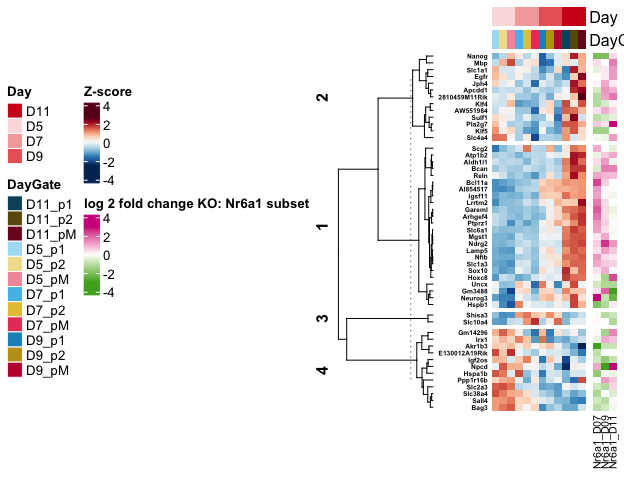
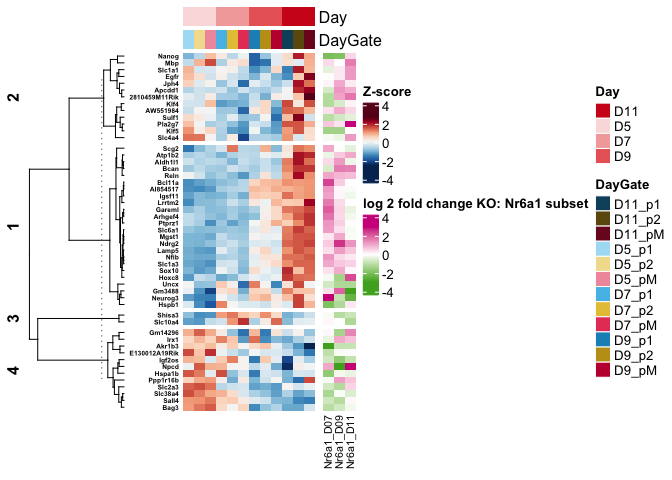
plot Nr6a1 targets

diff --git a/r_files/temporal_screen_2_hitsRNAseq.md b/r_files/temporal_screen_2_hitsRNAseq.md
@@ -618,20 +618,6 @@ ht_RNA_KOfoldchange <- lapply(c(1:length(KOvector)),function (x) {
 
     ## Warning: The input is a data frame-like object, convert it to a matrix.
 
-# CUSTOM for some genes
-
-``` r
-# dds_counts_plot <- dds_counts %>% 
-#   as.data.frame() %>%
-#   rownames_to_column("geneid") %>%
-#   gather(sampleid, counts_norm, starts_with("D"))%>% 
-#   separate(sampleid,into=c("Day","GeneKO","Rep"), sep="_", remove=FALSE) %>%
-#   left_join(metaKOs, by="GeneKO") %>%
-#   mutate(Condition=paste(GeneKO,Day, sep="_"),
-#          GeneKO=factor(GeneKO, levels=geneKO))
-#   
-```
-
 ## Fig: polycomb + Brd8
 
 - Beyond just NFIA: Polycomb + Brd8 promote temporal progression, e.g. 
@@ -773,13 +759,7 @@ hmap_catsRNA <- Heatmap(vsd_hm_z,
 
     # specify top and bottom annotations
       top_annotation = colAnn)
-```
 
-    ## 'magick' package is suggested to install to give better rasterization.
-    ## 
-    ## Set `ht_opt$message = FALSE` to turn off this message.
-
-``` r
     ## subset to make a heatmap of log2FC: there will be genes with NA throughout 
   sub_log2fc <- top_comparisons_prep_multi %>% dplyr::select(Geneid,log2FoldChange, GeneKO_day) %>%
       pivot_wider(values_from = log2FoldChange, names_from = GeneKO_day) # this table has 3 columns for the three days with NAs for those genes that are significant at a particular timepoint   
@@ -832,7 +812,7 @@ draw(hmap_catsRNA + hmap_foldchange,
     row_sub_title_side = 'left')    
 ```
 
-![](temporal_screen_2_hitsRNAseq_files/figure-gfm/unnamed-chunk-17-1.png)<!-- -->
+![](temporal_screen_2_hitsRNAseq_files/figure-gfm/unnamed-chunk-16-1.png)<!-- -->
 
 ``` r
 # print heatmap
@@ -882,7 +862,7 @@ ggsave(paste0(workingdir,outdir,"Heatmap_DV_markers_PRC-Brd8KO.pdf"), plot=hm_pl
 hm_plot_dvmarkers
 ```
 
-![](temporal_screen_2_hitsRNAseq_files/figure-gfm/unnamed-chunk-19-1.png)<!-- -->
+![](temporal_screen_2_hitsRNAseq_files/figure-gfm/unnamed-chunk-18-1.png)<!-- -->
 
 ### heatmap of the temporal progression hits
 
@@ -1044,7 +1024,7 @@ draw(hmap_catsRNA + hmap_foldchange,
     row_sub_title_side = 'left')    
 ```
 
-![](temporal_screen_2_hitsRNAseq_files/figure-gfm/unnamed-chunk-21-1.png)<!-- -->
+![](temporal_screen_2_hitsRNAseq_files/figure-gfm/unnamed-chunk-20-1.png)<!-- -->
 
 ``` r
 # print heatmap
@@ -1261,7 +1241,7 @@ draw(hmap_catsRNA + hmap_foldchange,
     row_sub_title_side = 'left')    
 ```
 
-![](temporal_screen_2_hitsRNAseq_files/figure-gfm/unnamed-chunk-22-1.png)<!-- -->
+![](temporal_screen_2_hitsRNAseq_files/figure-gfm/unnamed-chunk-21-1.png)<!-- -->
 
 ``` r
 # print heatmap
@@ -1290,7 +1270,7 @@ set.seed(953)
 hmap = draw(hmap_catsRNA + hmap_foldchange)
 ```
 
-![](temporal_screen_2_hitsRNAseq_files/figure-gfm/unnamed-chunk-23-1.png)<!-- -->
+![](temporal_screen_2_hitsRNAseq_files/figure-gfm/unnamed-chunk-22-1.png)<!-- -->
 
 ``` r
 row_order(hmap)
@@ -1358,7 +1338,7 @@ ggsave(paste0(workingdir,outdir,"Heatmap_log2fc_subsub_Nr6a1KO.pdf"), plot=hm_pl
 hm_plot_nr
 ```
 
-![](temporal_screen_2_hitsRNAseq_files/figure-gfm/unnamed-chunk-26-1.png)<!-- -->
+![](temporal_screen_2_hitsRNAseq_files/figure-gfm/unnamed-chunk-25-1.png)<!-- -->
 
 Line plots instead of heatmap for CaTS-RNA
 
@@ -1383,7 +1363,7 @@ ggplot(count_cats_sub, aes(x=Day, y=norm_counts, group=CellType)) +
   theme_bw(base_size = 18)
 ```
 
-![](temporal_screen_2_hitsRNAseq_files/figure-gfm/unnamed-chunk-28-1.png)<!-- -->
+![](temporal_screen_2_hitsRNAseq_files/figure-gfm/unnamed-chunk-27-1.png)<!-- -->
 
 ``` r
 # relative to max for ploting the average:
@@ -1425,7 +1405,89 @@ ggsave(paste0(workingdir,outdir,"Lineplot_ave_relative_subsub_Nr6a1KO.pdf"), plo
 rel_ave_nr6a1sub
 ```
 
-![](temporal_screen_2_hitsRNAseq_files/figure-gfm/unnamed-chunk-31-1.png)<!-- -->
+![](temporal_screen_2_hitsRNAseq_files/figure-gfm/unnamed-chunk-30-1.png)<!-- -->
+
+## Nr6a1 known targets
+
+Plot changes (or lack thereof) in Nr6a1 mut.
+
+Import data generated in this script
+
+``` r
+timepoint=c("D07_","D09_","D11_")
+       
+dds_sub_counts_list <- lapply(c(1:length(timepoint)), function(x) {
+  norm_counts <- read.table(file = paste0(workingdir,outdir,"CountsNormalized_",timepoint[x],"GeneKO_Nr6a1_vs_NT",".txt"))
+  norm_counts
+})
+
+dds_sub_counts <- do.call(cbind, dds_sub_counts_list)
+
+dds_counts_plot <- dds_sub_counts %>% 
+  as.data.frame() %>%
+  rownames_to_column("geneid") %>%
+  gather(sampleid, counts_norm, starts_with("D"))%>% 
+  separate(sampleid,into=c("Day","GeneKO","Rep"), sep="_", remove=FALSE)
+
+colorKOs <- c("#b7b7b7","#ff2e0e")
+```
+
+Hox from et al Figure 5 Chang et al 2022
+
+``` r
+geneOI <- c("Hoxaas3","Hoxc5","Hoxc6","Hoxc8","Hoxc9","Hoxc10","Hoxa11","Hoxa11os","Hoxd12","Hoxa13","Hottip","Hoxb13","Hoxc13","Hoxd13")
+```
+
+Bar plots of the known Hox genes affected
+
+``` r
+plot_nr6a1KO_targetgenes <- ggplot(dds_counts_plot %>% filter(geneid %in% geneOI & GeneKO %in% c("NT","Nr6a1")) %>% 
+            mutate(geneid=factor(geneid, levels=geneOI)), 
+               aes(x=Day,y=counts_norm)) +
+          stat_summary(aes(fill=GeneKO),
+            fun = mean, geom="bar", alpha=0.8, width=0.6,position=position_dodge(0.6)) +
+          geom_point(aes(fill=GeneKO), alpha=0.7, position = position_jitterdodge(jitter.width = 0.2),color="black",shape=21) +
+          scale_fill_manual(values=colorKOs) +
+          scale_color_manual(values=colorKOs) +
+          scale_shape_manual(values=shapes4_fill_manual) +
+          facet_wrap(~ geneid, scales = "free_y") +
+          theme_bw()
+        
+# ggsave(paste0(workingdir,outdir,"Barplot_knowntargets_Nr6a1KO.pdf"), plot=plot_nr6a1KO_targetgenes,
+#              width=4, height=2, units="in", useDingbats=FALSE)
+
+plot_nr6a1KO_targetgenes
+```
+
+![](temporal_screen_2_hitsRNAseq_files/figure-gfm/unnamed-chunk-33-1.png)<!-- -->
+
+Fig 7 genes Chang et al 2022
+
+``` r
+geneOI <- c("Hoxc6","Hoxa7","Hoxc8","Hoxa9","Hoxc9","Hoxd9","Hoxb6","Hoxb9","Hoxb7","Hoxb8",
+            "Hoxa10","Hoxc10","Hoxd10","Hoxa11","Hoxc11","Hoxd11","Hoxa11os","Hotair","Hoxc12","Hoxd12","Hoxb13","Hoxc13","Hoxd13")
+```
+
+``` r
+plot_nr6a1KO_targetgenes <- ggplot(dds_counts_plot %>% filter(geneid %in% geneOI & GeneKO %in% c("NT","Nr6a1")) %>% 
+            mutate(geneid=factor(geneid, levels=geneOI)), 
+               aes(x=Day,y=counts_norm)) +
+          stat_summary(aes(fill=GeneKO),
+            fun = mean, geom="bar", alpha=0.8, width=0.6,position=position_dodge(0.6)) +
+          geom_point(aes(fill=GeneKO), alpha=0.7, position = position_jitterdodge(jitter.width = 0.2),color="black",shape=21) +
+          scale_fill_manual(values=colorKOs) +
+          scale_color_manual(values=colorKOs) +
+          scale_shape_manual(values=shapes4_fill_manual) +
+          facet_wrap(~ geneid, scales = "free_y") +
+          theme_bw()
+        
+ggsave(paste0(workingdir,outdir,"Barplot_knowntargets_Nr6a1KO.pdf"), plot=plot_nr6a1KO_targetgenes,
+             width=8, height=4.5, units="in", useDingbats=FALSE)
+
+plot_nr6a1KO_targetgenes
+```
+
+![](temporal_screen_2_hitsRNAseq_files/figure-gfm/unnamed-chunk-34-1.png)<!-- -->
 
 ``` r
 sessionInfo()
@@ -1433,7 +1495,7 @@ sessionInfo()
 
     ## R version 4.4.0 (2024-04-24)
     ## Platform: aarch64-apple-darwin20
-    ## Running under: macOS Sonoma 14.4.1
+    ## Running under: macOS 15.2
     ## 
     ## Matrix products: default
     ## BLAS:   /Library/Frameworks/R.framework/Versions/4.4-arm64/Resources/lib/libRblas.0.dylib 
@@ -1451,41 +1513,42 @@ sessionInfo()
     ## 
     ## other attached packages:
     ##  [1] circlize_0.4.16             colorspace_2.1-0           
-    ##  [3] UpSetR_1.4.0                tximport_1.31.1            
-    ##  [5] ComplexHeatmap_2.19.0       lubridate_1.9.3            
+    ##  [3] UpSetR_1.4.0                tximport_1.32.0            
+    ##  [5] ComplexHeatmap_2.20.0       lubridate_1.9.3            
     ##  [7] forcats_1.0.0               stringr_1.5.1              
     ##  [9] dplyr_1.1.4                 purrr_1.0.2                
     ## [11] readr_2.1.5                 tidyr_1.3.1                
     ## [13] tibble_3.2.1                ggplot2_3.5.1              
     ## [15] tidyverse_2.0.0             RColorBrewer_1.1-3         
-    ## [17] DESeq2_1.43.5               SummarizedExperiment_1.33.3
-    ## [19] Biobase_2.63.1              MatrixGenerics_1.15.1      
-    ## [21] matrixStats_1.3.0           GenomicRanges_1.55.4       
-    ## [23] GenomeInfoDb_1.39.14        IRanges_2.37.1             
-    ## [25] S4Vectors_0.41.7            BiocGenerics_0.49.1        
+    ## [17] DESeq2_1.44.0               SummarizedExperiment_1.34.0
+    ## [19] Biobase_2.64.0              MatrixGenerics_1.16.0      
+    ## [21] matrixStats_1.3.0           GenomicRanges_1.56.0       
+    ## [23] GenomeInfoDb_1.40.1         IRanges_2.38.0             
+    ## [25] S4Vectors_0.42.0            BiocGenerics_0.50.0        
     ## 
     ## loaded via a namespace (and not attached):
-    ##  [1] tidyselect_1.2.1        farver_2.1.1            fastmap_1.1.1          
+    ##  [1] tidyselect_1.2.1        farver_2.1.2            fastmap_1.2.0          
     ##  [4] digest_0.6.35           timechange_0.3.0        lifecycle_1.0.4        
-    ##  [7] cluster_2.1.6           magrittr_2.0.3          compiler_4.4.0         
-    ## [10] rlang_1.1.3             tools_4.4.0             utf8_1.2.4             
-    ## [13] yaml_2.3.8              knitr_1.46              labeling_0.4.3         
-    ## [16] S4Arrays_1.3.7          bit_4.0.5               DelayedArray_0.29.9    
-    ## [19] plyr_1.8.9              abind_1.4-5             BiocParallel_1.37.1    
-    ## [22] withr_3.0.0             fansi_1.0.6             scales_1.3.0           
-    ## [25] iterators_1.0.14        cli_3.6.2               rmarkdown_2.26         
-    ## [28] crayon_1.5.2            ragg_1.3.0              generics_0.1.3         
-    ## [31] rstudioapi_0.16.0       httr_1.4.7              tzdb_0.4.0             
-    ## [34] rjson_0.2.21            zlibbioc_1.49.3         parallel_4.4.0         
-    ## [37] XVector_0.43.1          vctrs_0.6.5             Matrix_1.7-0           
-    ## [40] jsonlite_1.8.8          hms_1.1.3               GetoptLong_1.0.5       
-    ## [43] bit64_4.0.5             clue_0.3-65             systemfonts_1.0.6      
-    ## [46] locfit_1.5-9.9          foreach_1.5.2           glue_1.7.0             
-    ## [49] codetools_0.2-20        stringi_1.8.3           gtable_0.3.5           
-    ## [52] shape_1.4.6.1           UCSC.utils_0.99.7       munsell_0.5.1          
-    ## [55] pillar_1.9.0            htmltools_0.5.8.1       GenomeInfoDbData_1.2.12
-    ## [58] R6_2.5.1                textshaping_0.3.7       doParallel_1.0.17      
-    ## [61] vroom_1.6.5             evaluate_0.23           lattice_0.22-6         
-    ## [64] highr_0.10              png_0.1-8               Rcpp_1.0.12            
-    ## [67] gridExtra_2.3           SparseArray_1.3.7       xfun_0.43              
-    ## [70] pkgconfig_2.0.3         GlobalOptions_0.1.2
+    ##  [7] cluster_2.1.6           Cairo_1.6-2             magrittr_2.0.3         
+    ## [10] compiler_4.4.0          rlang_1.1.4             tools_4.4.0            
+    ## [13] utf8_1.2.4              yaml_2.3.8              knitr_1.47             
+    ## [16] labeling_0.4.3          S4Arrays_1.4.1          bit_4.0.5              
+    ## [19] DelayedArray_0.30.1     plyr_1.8.9              abind_1.4-5            
+    ## [22] BiocParallel_1.38.0     withr_3.0.0             fansi_1.0.6            
+    ## [25] scales_1.3.0            iterators_1.0.14        cli_3.6.2              
+    ## [28] rmarkdown_2.27          crayon_1.5.2            ragg_1.3.2             
+    ## [31] generics_0.1.3          rstudioapi_0.16.0       httr_1.4.7             
+    ## [34] tzdb_0.4.0              rjson_0.2.21            zlibbioc_1.50.0        
+    ## [37] parallel_4.4.0          XVector_0.44.0          vctrs_0.6.5            
+    ## [40] Matrix_1.7-0            jsonlite_1.8.8          hms_1.1.3              
+    ## [43] GetoptLong_1.0.5        bit64_4.0.5             clue_0.3-65            
+    ## [46] systemfonts_1.1.0       magick_2.8.3            locfit_1.5-9.9         
+    ## [49] foreach_1.5.2           glue_1.7.0              codetools_0.2-20       
+    ## [52] stringi_1.8.4           gtable_0.3.5            shape_1.4.6.1          
+    ## [55] UCSC.utils_1.0.0        munsell_0.5.1           pillar_1.9.0           
+    ## [58] htmltools_0.5.8.1       GenomeInfoDbData_1.2.12 R6_2.5.1               
+    ## [61] textshaping_0.4.0       doParallel_1.0.17       vroom_1.6.5            
+    ## [64] evaluate_0.23           lattice_0.22-6          highr_0.11             
+    ## [67] png_0.1-8               Rcpp_1.0.12             gridExtra_2.3          
+    ## [70] SparseArray_1.4.8       xfun_0.44               pkgconfig_2.0.3        
+    ## [73] GlobalOptions_0.1.2
